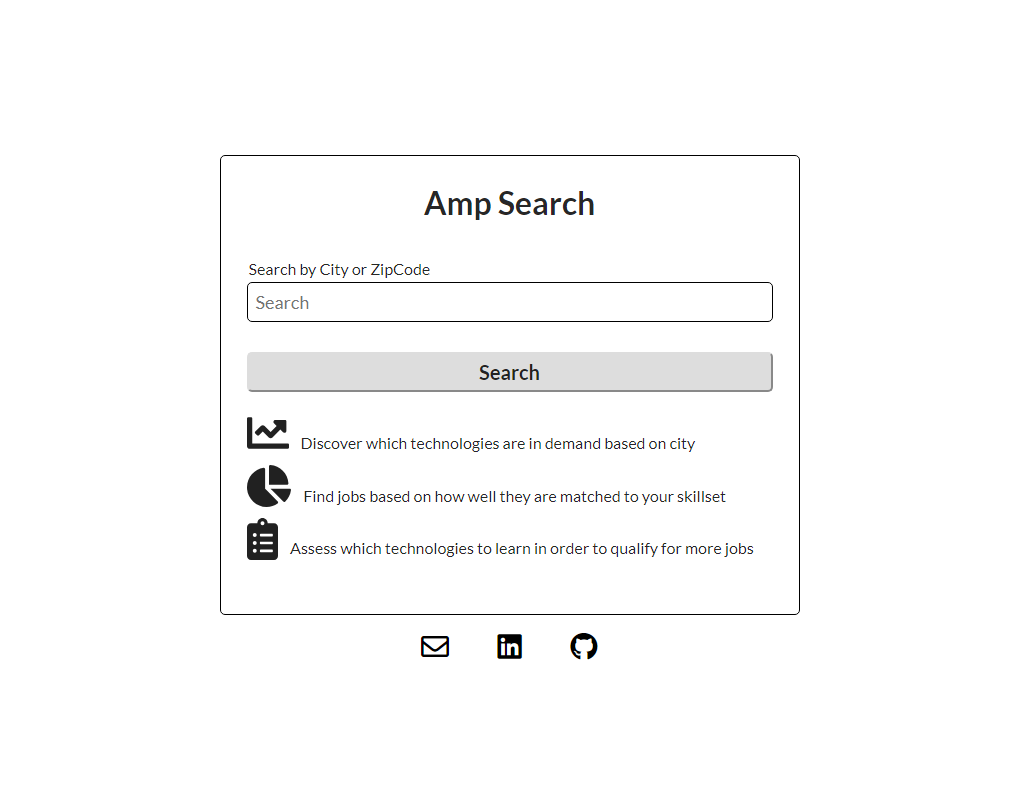
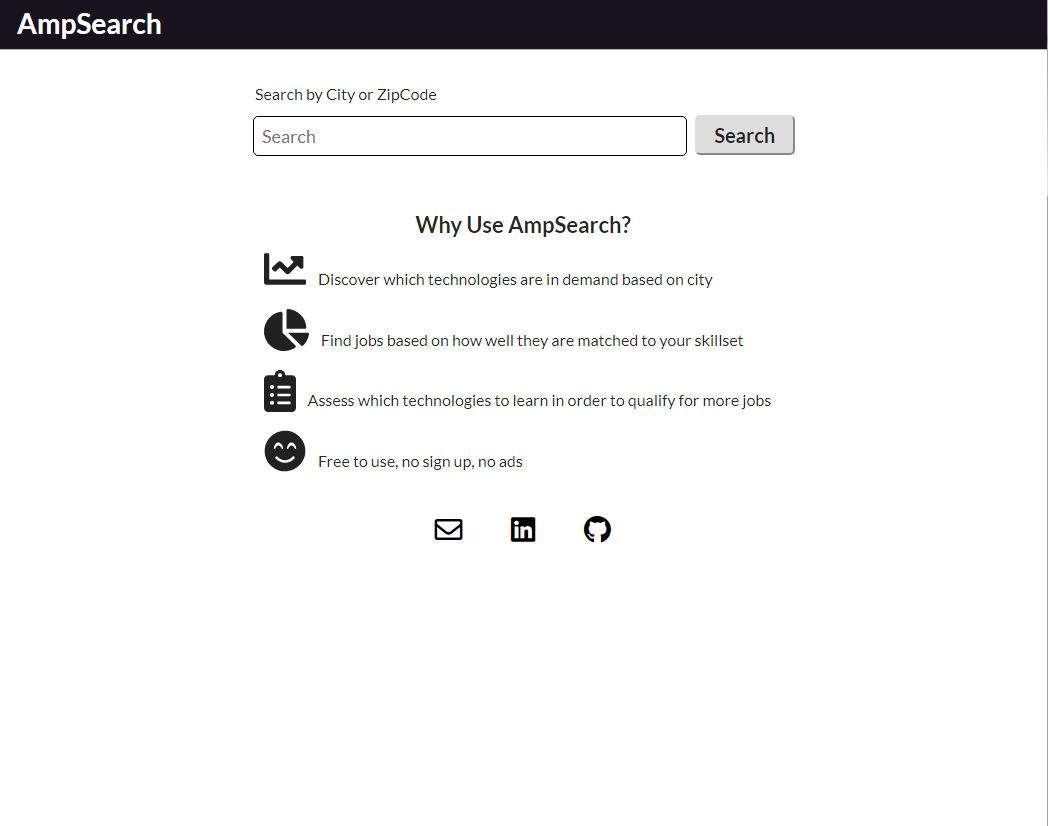
added bootstrap 4 and removed old css styles

diff --git a/index.html b/index.html
@@ -5,81 +5,98 @@
 	<meta charset="utf-8">
   <meta name="viewport" content="width=device-width">
   <link href="css/styles.css" rel="stylesheet" type="text/css" />
+  <link rel="stylesheet" href="https://maxcdn.bootstrapcdn.com/bootstrap/4.0.0/css/bootstrap.min.css">
+  <link rel="stylesheet" href="https://use.fontawesome.com/releases/v5.6.3/css/all.css">
 </head>
 <body>
-	<nav id="nav-ul">
-		<ul>
-			<li id='name'>Fu-Lin Liu</li>
-<!-- 			<li><a href=#>Projects</a></li> -->
-			<li><a href="https://www.linkedin.com/in/fu-lin-liu-46694714/" target="_blank">Linkedin</a></li>
-			<li><a href="https://github.com/fulin426" target="_blank">GitHub</a></li>
-		</ul>
-	</nav>
+<!-- Navigation -->
+<nav class="navbar navbar-expand-lg navbar-dark bg-dark">
+  <div class="container">
+	  <a class="navbar-brand" href="#">Navbar</a>
+	  <button class="navbar-toggler" type="button" data-toggle="collapse" data-target="#navbarSupportedContent" aria-controls="navbarSupportedContent" aria-expanded="false" aria-label="Toggle navigation">
+	    <span class="navbar-toggler-icon"></span>
+	  </button>
+	  <div class="collapse navbar-collapse" id="navbarSupportedContent">
+	    <ul class="navbar-nav mr-auto">
+	    	<li class="nav-item">
+			  	<a class="nav-link profile-about" href="#profile">Profile</a>
+			  </li>
+			  <li class="nav-item">
+			  	<a class="nav-link profile-about" href="#projects">Projects</a>
+			  </li>
+			  <li class="nav-item">
+			  	<a class="nav-link profile-about" href="#contact">Contact </a>
+			  </li>
+	    </ul>
+	  </div>
+	</div>
+</nav>
+<!-- Introduction -->
 	<section id="intro">
-		<p>I am a Web Developer based in the San Francisco Bay Area. I am passionate about new technologies, challenging myself, and problem solving. My interests include riding my single speed throughout the city, live concerts, and ramen noodles. Feel free to browse some my projects below.</p>
-	</section>
-	<section class="grid">
-		<div class="col-2-3 project-container">
-			<img class="screenshot" src="img/landing_page_AmpSearch.png">
-		</div>
-		<div class="col-1-3 project-text">
-			<div class="project-header">
-				<h2>Amp Search</h2>
-			</div>	
-			<p class="project-text">A interactive fullstack web app that allows users to search for jobs based on skills/	technlogies that the user has. The jobs with the closests match are shown at the top of the search results. Users can then use that information to asses which technologies are in demand based on region.
-			</p>
-			<div class="project-github-demo">
-				<p>
-					<a href="https://github.com/fulin426/Amp-Search" target="_blank">Github</a> | 
-					<a href="https://ampsearch.herokuapp.com/" target="_blank" >Demo</a>
-				</p>
-			</div>
+		<div class="container">
+			<p>I am a Web Developer based in the San Francisco Bay Area. I am passionate about new technologies, challenging myself, and problem solving. My interests include riding my single speed throughout the city, live concerts, and ramen noodles. Feel free to browse some my projects below.</p>
 		</div>
 	</section>
-	<section class="grid">
-		<div class="col-2-3 project-container">
-			<img class="screenshot" src="img/LandingPage_PortfolioTracker.jpg">
-		</div>
-		<div class="col-1-3 project-text">
-			<div class="project-header">
-				<h2>Portfolio Tracker</h2>
-			</div>	
-			<p class="project-text"> Portfolio Tracker is a interactive fullstack web app that helps users keep track of their different funds and asset classes. It allows them see a current snapshot of how their portfolio is performing.
-			</p>
-			<div class="project-github-demo">
-				<p>
-					<a href="https://github.com/fulin426/node-capstone-portfolio-tracker" target="_blank">Github</a> | 
-					<a href="https://node-portfolio-tracker.herokuapp.com/" target="_blank" >Demo</a>
-				</p>
+<!-- Projects -->
+	<section id="projects">
+		<div class="container">
+			<div class="row projects">
+				<div class="col-7">
+					<img class="img-thumbnail" src="img/landing_page_AmpSearch.png">
+				</div>
+				<div class="col-5">
+					<div class="project-header">
+						<h2>Amp Search</h2>
+					</div>	
+					<p class="project-text">A interactive fullstack web app that allows users to search for jobs based on skills/	technlogies that the user has. The jobs with the closests match are shown at the top of the search results. Users can then use that information to asses which technologies are in demand based on region.
+					</p>
+					<div class="project-github-demo">
+						<p>
+							<a href="https://github.com/fulin426/Amp-Search" target="_blank">Github</a> | 
+							<a href="https://ampsearch.herokuapp.com/" target="_blank" >Demo</a>
+						</p>
+					</div>
+				</div>	
 			</div>
-		</div>
-	</section>
-	<section class="grid">
-		<div class="col-2-3 project-container">
-			<img class="screenshot" src="img/LandingPage_UpcomingEvents.png">
-		</div>
-		<div class="col-1-3 project-text">
-			<div class="project-header">
-				<h2>Upcoming Events!</h2>
+			<div class="row projects">	
+				<div class="col-7">
+					<img class="img-thumbnail" src="img/LandingPage_UpcomingEvents.png">
+				</div>
+				<div class="col-5">
+					<div class="project-header">
+						<h2>Upcoming Events!</h2>
+					</div>	
+					<p class="project-text">Upcoming Events is a interactive fullstack web app that allows users to search for concert dates based on their favorite artists and save events that are upcoming
+					</p>
+					<div class="project-github-demo">
+						<p>
+							<a href="https://github.com/fulin426/Upcoming-Events" target="_blank">Github</a> | 
+							<a href="https://capstone-upcoming-events.herokuapp.com/" target="_blank" >Demo</a>
+						</p>
+					</div>
+				</div>
 			</div>	
-			<p class="project-text">Upcoming Events is a interactive fullstack web app that allows users to search for concert dates based on their favorite artists and save events that are upcoming
-			</p>
-			<div class="project-github-demo">
-				<p>
-					<a href="https://github.com/fulin426/Upcoming-Events" target="_blank">Github</a> | 
-					<a href="https://capstone-upcoming-events.herokuapp.com/" target="_blank" >Demo</a>
-				</p>
-			</div>
 		</div>
 	</section>
 	<div class="bottom-space">
 	</div>
-	<footer>
-		Feel free to contact me at 
-		<a className='footer-link' href='mailto:fulin426@gmail.com?subject=Hello%20There'>fulin426@gmail.com
-		</a>
-	</footer>
+	<!-- Contact -->
+	<div class="row" id="contact">
+		<div class="col-12">
+			<h2>Contact</h2>
+			<p>Let's talk - web development, new opportunities, or anything else on your mind!</p>
+			<p>Email: <a href="mailto:baolin.liu@gmail.com?subject=Hello%20There" target="_top">fulin426@gmail.com</a></p>
+		</div>
+		<div class="icons">
+			<a a href="mailto:fulin426@gmail.com?subject=Hello%20There" target="_top" class="logo-link"><i class="fas fa-envelope-square fa-3x fa-fw logo" ></i></a>
+			<a href="https://github.com/fulin426" target="blank" class="logo-link"><i class="fab fa-github fa-3x fa-fw logo" ></i></a>
+			<a href="https://www.linkedin.com/in/fu-lin-liu/" target="blank" class="logo-link"><i class="fab fa-linkedin fa-3x fa-fw logo"></i></a>
+		</div>
+	</div>
 <script src="https://code.jquery.com/jquery-3.2.1.min.js"></script>
+<script src="https://code.jquery.com/jquery-3.2.1.slim.min.js"></script>
+	<script src="https://cdnjs.cloudflare.com/ajax/libs/popper.js/1.12.9/umd/popper.min.js"></script>
+	<script src="https://maxcdn.bootstrapcdn.com/bootstrap/4.0.0/js/bootstrap.min.js"></script>
 <script type="text/javascript" src="client.js"></script>
 </body>
 </html>

diff --git a/css/styles.css b/css/styles.css
@@ -1,130 +1,39 @@
-*, *:after, *:before {
-  -webkit-box-sizing: border-box;
-  -moz-box-sizing: border-box;
-  box-sizing: border-box;
+body {
+  padding-bottom: 2%;
 }
 
 nav {
-	max-width: 940px;
-	margin: 10px auto 10px auto;
-	text-align: center;
+  margin-bottom: 1.5rem;
+  color: blue;
 }
 
-ul {
-  padding: 0;
-  margin: 0;
+.row {
+  margin-bottom: 1.8rem;
 }
 
-li {
-	display: inline;
-	margin-right: 10px;
-  margin-left: 10px;
-  font-size: 20px;
-}
-
-#nav-ul {
-  height: 60px;
-  padding: 18px;
-}
-
-#name {
-  font-weight: bold;
-}
-
-section {
-	max-width: 940px;
-	margin: 25px auto 25px auto;
-  padding: 12px;
-  border: solid #A9A9A9 1px;
-  border-radius: 3px;
-}
-
-.grid {
-  background-color: #e0e0e0;
-}
-
-#intro {
+.project-github-demo, .project-header {
   text-align: center;
-  font-weight: 500;
-  font-size: 18px;
-  border: none;
 }
 
-/*box-grid*/
-[class*='col-'] {
-  float: left;
+.projects {
+  border: solid 1px #A9A9A9;
+  border-radius: 5px;
+  padding: .5rem;
+  box-shadow: 0 8px 6px -6px rgba(0,0,0,0.5);
 }
 
-.col-2-3 {
-  width: 100%;
-}
-.col-1-3 {
-  width: 100%;
+/*contact*/
+#contact, .contacts-wrapper {
+  text-align: center;
 }
 
-.grid:after {
-  content: "";
-  display: table;
-  clear: both;
+.logo-link {
+  color: inherit;
 }
 
-[class*='col-'] {
-  padding-right: 20px;
-}
-[class*='col-']:last-of-type {
-  padding-right: 0;
-}
-
-@media only screen and (min-width: 640px) {
-  .col-2-3 {
-    width: 60%;
-  }
-  .col-1-3 {
-    width: 40%;
-  }
-
-  li {
-  margin-right: 25px;
-  margin-left: 25px;
-  font-size: 20px;
-  }
-}
-/*Project Text info*/
-.project-container {
+.icons {
+  color: black;
   display: inline-block;
+  width: 100%
 }
-
-.screenshot {
-    width: 100%;
-    max-height: 460px;
-    display: inline-block;
-}
-
-.project-text {
-  display: inline-block;
-}
-
-.project-header {
-	width: 100%;
-	text-align: center;
-	font-size: 24px;
-}
-
-.project-github-demo {
-	width: 100%;
-	text-align: center;
-  display: inline-block;
-}
-
-.bottom-space {
-  height: 100px;
-}
-
-footer {
-    width: 100%;
-    background-color: #606060;
-    color: white;
-    text-align: center;
-}
-
 
